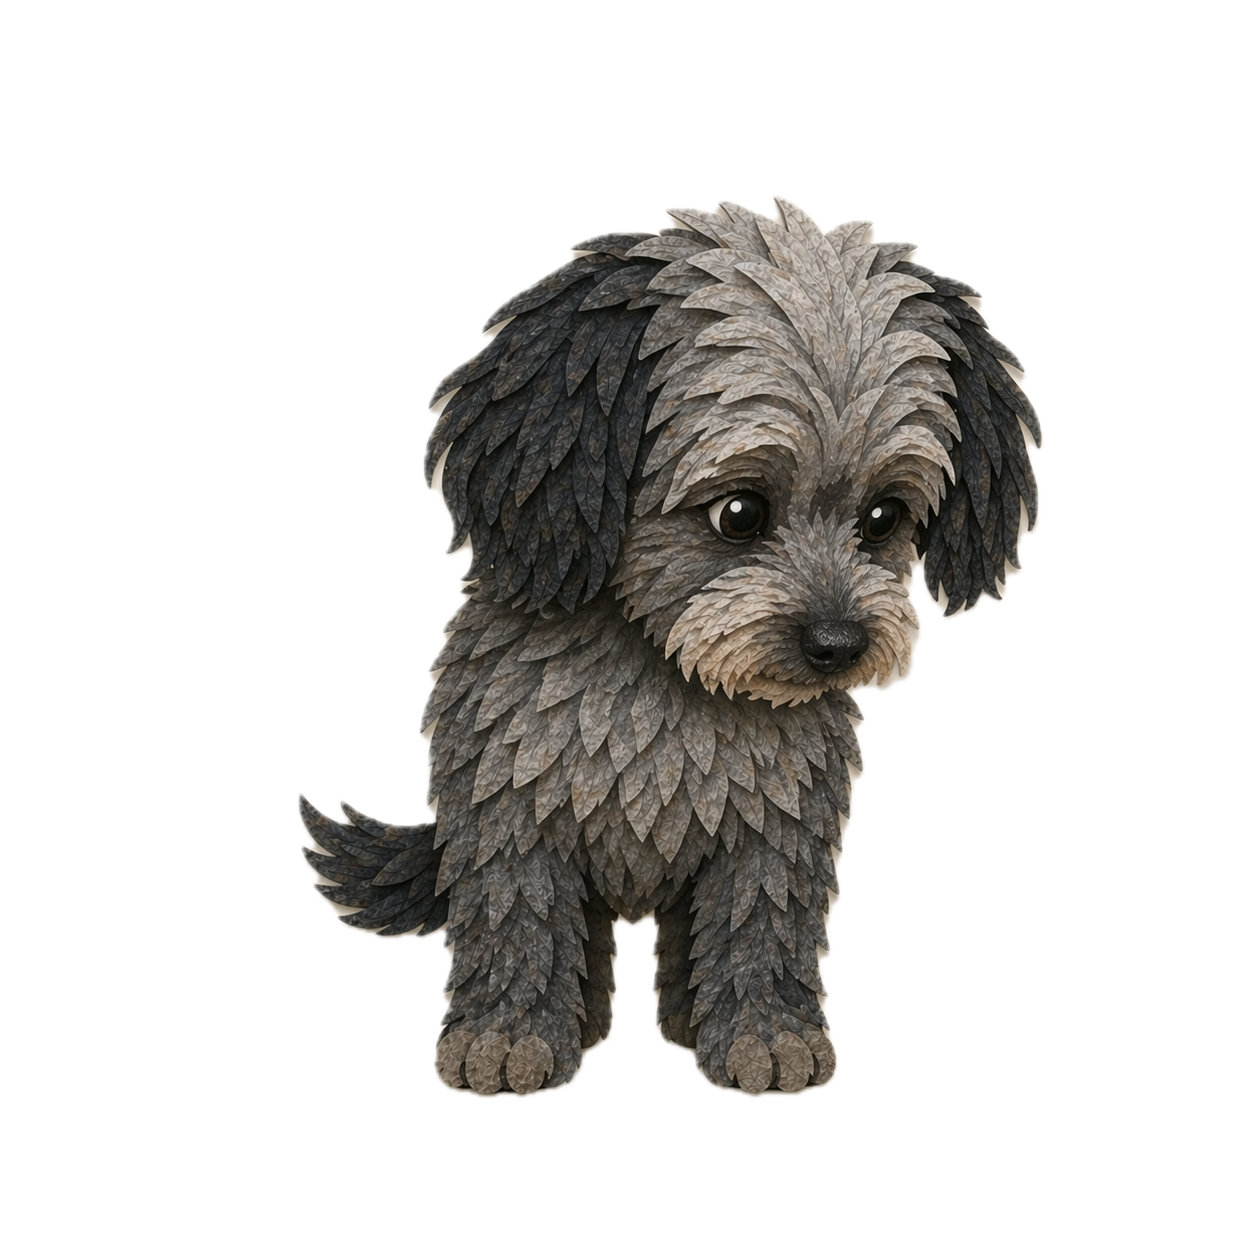
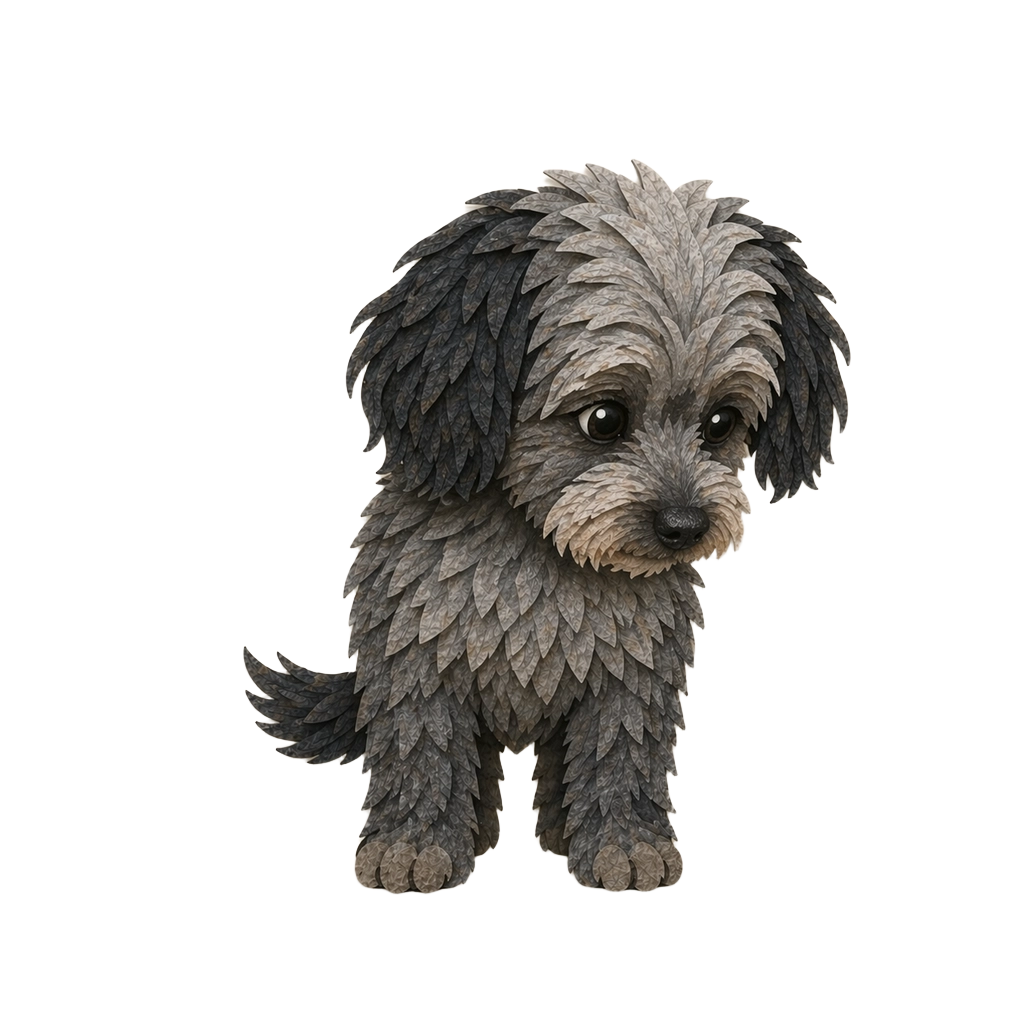
Refresh alpha sprites

diff --git a/utilities/bg-removal/remove_backgrounds.py b/utilities/bg-removal/remove_backgrounds.py
@@ -3,6 +3,7 @@ from __future__ import annotations
 
 import argparse
 import os
+import shutil
 from pathlib import Path
 from typing import Iterable
 from urllib.request import urlopen
@@ -10,6 +11,23 @@ from urllib.request import urlopen
 
 DEFAULT_MODEL = "bria/remove-background"
 SUPPORTED_EXTENSIONS = {".jpg", ".jpeg", ".png", ".webp"}
+XCODE_ASSET_MAP = {
+    "bark-1.png": "MilesMouse/MilesMouse/Assets.xcassets/miles_alpha_bark.imageset/miles_alpha_bark.png",
+    "dir-down-left.png": "MilesMouse/MilesMouse/Assets.xcassets/miles_alpha_down_left.imageset/miles_alpha_down_left.png",
+    "dir-down-right.png": "MilesMouse/MilesMouse/Assets.xcassets/miles_alpha_down_right.imageset/miles_alpha_down_right.png",
+    "dir-down.png": "MilesMouse/MilesMouse/Assets.xcassets/miles_alpha_down.imageset/miles_alpha_down.png",
+    "dir-left.png": "MilesMouse/MilesMouse/Assets.xcassets/miles_alpha_left.imageset/miles_alpha_left.png",
+    "dir-right.png": "MilesMouse/MilesMouse/Assets.xcassets/miles_alpha_right.imageset/miles_alpha_right.png",
+    "dir-up-left.png": "MilesMouse/MilesMouse/Assets.xcassets/miles_alpha_up_left.imageset/miles_alpha_up_left.png",
+    "dir-up-right.png": "MilesMouse/MilesMouse/Assets.xcassets/miles_alpha_up_right.imageset/miles_alpha_up_right.png",
+    "dir-up.png": "MilesMouse/MilesMouse/Assets.xcassets/miles_alpha_up.imageset/miles_alpha_up.png",
+    "forward.png": "MilesMouse/MilesMouse/Assets.xcassets/miles_alpha_forward.imageset/miles_alpha_forward.png",
+    "pet-1.png": "MilesMouse/MilesMouse/Assets.xcassets/miles_alpha_pet_1.imageset/miles_alpha_pet_1.png",
+    "pet-2.png": "MilesMouse/MilesMouse/Assets.xcassets/miles_alpha_pet_2.imageset/miles_alpha_pet_2.png",
+    "pet-3.png": "MilesMouse/MilesMouse/Assets.xcassets/miles_alpha_pet_3.imageset/miles_alpha_pet_3.png",
+    "tilt-1.png": "MilesMouse/MilesMouse/Assets.xcassets/miles_alpha_tilt_1.imageset/miles_alpha_tilt_1.png",
+    "tilt-2.png": "MilesMouse/MilesMouse/Assets.xcassets/miles_alpha_tilt_2.imageset/miles_alpha_tilt_2.png",
+}
 
 
 def main() -> int:
@@ -40,6 +58,8 @@ def main() -> int:
             if output_path.exists() and not args.overwrite:
                 action = "skip"
             print(f"{action}: {image_path} -> {output_path}")
+        if args.sync_xcode_assets:
+            sync_xcode_assets(repo_root, output_dir, dry_run=True)
         return 0
 
     load_env(repo_root)
@@ -60,6 +80,9 @@ def main() -> int:
             )
 
         write_output(output, output_path)
+
+    if args.sync_xcode_assets:
+        sync_xcode_assets(repo_root, output_dir)
 
     return 0
 
@@ -100,6 +123,11 @@ def parse_args(repo_root: Path) -> argparse.Namespace:
         "--dry-run",
         action="store_true",
         help="Print planned work without loading Replicate or making API calls.",
+    )
+    parser.add_argument(
+        "--sync-xcode-assets",
+        action="store_true",
+        help="Copy alpha-images outputs into the MilesMouse asset catalog after processing.",
     )
     return parser.parse_args()
 
@@ -152,6 +180,30 @@ def write_output(output: object, output_path: Path) -> None:
     temp_path.write_bytes(data)
     temp_path.replace(output_path)
     print(f"wrote: {output_path}")
+
+
+def sync_xcode_assets(repo_root: Path, output_dir: Path, dry_run: bool = False) -> None:
+    missing_sources = []
+
+    for source_name, destination_relative_path in XCODE_ASSET_MAP.items():
+        source_path = output_dir / source_name
+        destination_path = repo_root / destination_relative_path
+
+        if not source_path.exists():
+            missing_sources.append(source_path)
+            continue
+
+        if dry_run:
+            print(f"sync: {source_path} -> {destination_path}")
+            continue
+
+        destination_path.parent.mkdir(parents=True, exist_ok=True)
+        shutil.copy2(source_path, destination_path)
+        print(f"synced: {destination_path}")
+
+    if missing_sources:
+        missing = "\n".join(f"- {path}" for path in missing_sources)
+        raise SystemExit(f"Missing alpha output files for Xcode asset sync:\n{missing}")
 
 
 def read_output_bytes(output: object) -> bytes:

diff --git a/utilities/bg-removal/README.md b/utilities/bg-removal/README.md
@@ -34,6 +34,12 @@ Regenerate everything:
 uv run python remove_backgrounds.py --overwrite
 ```
 
+Regenerate everything and update the Xcode asset catalog used by the app:
+
+```sh
+uv run python remove_backgrounds.py --overwrite --sync-xcode-assets
+```
+
 ## Run With pip
 
 From this directory:
@@ -63,3 +69,7 @@ raw-images/bark-1.jpg  -> alpha-images/bark-1.png
 ```
 
 By default, existing outputs are skipped to avoid accidental Replicate runs. Use `--overwrite` when you want to replace them.
+
+## Xcode Asset Sync
+
+The app builds from `MilesMouse/MilesMouse/Assets.xcassets/miles_alpha_*.imageset`, not directly from `alpha-images/`. Use `--sync-xcode-assets` after generating alpha images so Xcode picks up the refreshed sprites on the next build or run.
